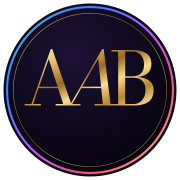
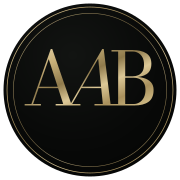
v4: maison restraint — black, deep emerald, champagne gold

Changed region(s): [[0.0278, 0.0278, 0.9722, 0.9722], [0.1389, 0.5278, 0.2222, 0.5833]]

diff --git a/src/index.css b/src/index.css
@@ -1,8 +1,8 @@
 :root{
-  --velvet:#07050f;--ink:#f6f0ff;--mute:rgba(246,240,255,.62);--line:rgba(255,255,255,.12);
-  --em:#0fbf8f;--sa:#3d6bff;--am:#a24dff;--ru:#ff2f6a;--gold:#e8c26a;
-  --foil:linear-gradient(110deg,#fff3c4 0%,#e8c26a 18%,#b07a2a 34%,#f8df98 50%,#b8862f 66%,#fff0b8 82%,#c9973c 100%);
-  --iri:linear-gradient(100deg,#46e0b4,#3d7bff 25%,#b45cff 50%,#ff4f7b 75%,#ffd27a);
+  --velvet:#070807;--ink:#f1eadb;--mute:rgba(241,234,219,.58);--line:rgba(201,177,122,.18);
+  --em:#0d2a22;--gold:#c9b17a;
+  --foil:linear-gradient(110deg,#a8905c 0%,#c9b17a 30%,#e6d6ad 48%,#c9b17a 62%,#9c8552 100%);
+  --iri:linear-gradient(90deg,rgba(201,177,122,.55),rgba(201,177,122,.15));
   --serif:'Bodoni Moda Variable','Bodoni Moda',Didot,serif;--sans:'Inter Tight Variable','Inter Tight',system-ui,sans-serif;
   --pad:clamp(20px,5vw,80px);--ease:cubic-bezier(.16,1,.3,1);
 }
@@ -12,7 +12,7 @@ body{overflow-x:hidden;font-size:16px;line-height:1.55}
 img{display:block;max-width:100%;height:auto}
 a{color:inherit;text-decoration:none}button{font:inherit;color:inherit;background:none;border:0;cursor:pointer}
 ol,ul{list-style:none}
-::selection{background:var(--am);color:#fff}
+::selection{background:var(--gold);color:#070807}
 .skip{position:fixed;left:12px;top:-60px;z-index:200;background:#fff;color:#000;padding:10px 14px;border-radius:8px}.skip:focus{top:12px}
 :focus-visible{outline:2px solid var(--gold);outline-offset:4px;border-radius:4px}
 .lbl{font-size:12px;letter-spacing:.18em;text-transform:uppercase;color:var(--mute);font-weight:500}
@@ -20,10 +20,10 @@ ol,ul{list-style:none}
 em{font-style:italic}
 
 /* text fills */
-.foil-t{background:var(--foil);background-size:250% 100%;-webkit-background-clip:text;background-clip:text;color:transparent;animation:foil 7s linear infinite}
-.iri-t{background:var(--iri);background-size:200% 100%;-webkit-background-clip:text;background-clip:text;color:transparent;animation:foil 9s linear infinite}
-.foil-t .wi{background:var(--foil);background-size:250% 100%;-webkit-background-clip:text;background-clip:text;color:transparent;animation:foil 7s linear infinite;padding-right:.05em}
-.iri-t .wi{background:var(--iri);background-size:200% 100%;-webkit-background-clip:text;background-clip:text;color:transparent;animation:foil 9s linear infinite;padding-right:.05em}
+.foil-t{background:var(--foil);background-size:250% 100%;-webkit-background-clip:text;background-clip:text;color:transparent;animation:foil 14s linear infinite}
+.iri-t{background:var(--iri);background-size:200% 100%;-webkit-background-clip:text;background-clip:text;color:transparent;animation:none}
+.foil-t .wi{background:var(--foil);background-size:250% 100%;-webkit-background-clip:text;background-clip:text;color:transparent;animation:foil 14s linear infinite;padding-right:.05em}
+.iri-t .wi{background:var(--iri);background-size:200% 100%;-webkit-background-clip:text;background-clip:text;color:transparent;animation:none;padding-right:.05em}
 .foil-t:has(.wi),.iri-t:has(.wi){background:none;animation:none}
 @keyframes foil{to{background-position:-250% 0}}
 
@@ -128,7 +128,7 @@ html[data-world="6"]{--w1:#7a0f3a;--w2:#4a1a8a;--w3:#6a4a1a}
 .head{display:flex;flex-direction:column;gap:22px;margin-bottom:clamp(40px,6vw,80px)}
 .head-l{display:flex;align-items:center;gap:12px}
 .h2{font-family:var(--serif);font-weight:400;font-size:clamp(48px,8.5vw,148px);line-height:.92;letter-spacing:-.03em}
-.h2 em .wi{background:var(--iri);background-size:200% 100%;-webkit-background-clip:text;background-clip:text;color:transparent;animation:foil 9s linear infinite;padding-right:.06em}
+.h2 em .wi{background:var(--iri);background-size:200% 100%;-webkit-background-clip:text;background-clip:text;color:transparent;animation:none;padding-right:.06em}
 .gem{width:14px;height:14px;transform:rotate(45deg);border-radius:2px;box-shadow:0 0 20px currentColor;background:currentColor}
 .gem-em{color:var(--em)}.gem-sa{color:var(--sa)}.gem-am{color:var(--am)}.gem-ru{color:var(--ru)}
 
@@ -243,3 +243,46 @@ html[data-world="6"]{--w1:#7a0f3a;--w2:#4a1a8a;--w3:#6a4a1a}
 @media (prefers-reduced-motion:reduce){
   *,*::before,*::after{animation:none!important;transition:none!important}
 }
+
+/* ───── v4 maison restraint ───── */
+.gold-t,.gold-t .wi{color:var(--gold)}
+.iri-t,.iri-t .wi{background:none!important;color:var(--gold)!important;-webkit-text-fill-color:var(--gold)}
+.h2 em .wi{background:none;color:var(--gold);animation:none}
+html,html[data-world]{--w1:#0d2a22;--w2:#08130f;--w3:#141108}
+.bg-css{background:radial-gradient(70% 55% at 75% 15%,rgba(13,42,34,.85),transparent 70%),radial-gradient(60% 50% at 10% 90%,rgba(13,42,34,.5),transparent 70%),var(--velvet)}
+.glass{background:linear-gradient(160deg,rgba(13,42,34,.35),rgba(7,8,7,.55));border:1px solid rgba(201,177,122,.16);border-radius:4px;box-shadow:0 40px 90px -40px rgba(0,0,0,.8);backdrop-filter:blur(12px);-webkit-backdrop-filter:blur(12px)}
+.glass::before{display:none}
+.glass:hover{border-color:rgba(201,177,122,.45)}
+.glass,.glass:hover{transition:border-color 1s var(--ease)}
+.wcard-media,.about-img picture,.spk-img picture{border-radius:2px}
+.disc-i.g0,.disc-i.g1,.disc-i.g2,.disc-i.g3{background:transparent;border:0;border-top:1px solid var(--line);box-shadow:none;backdrop-filter:none;border-radius:0;padding:28px 0}
+.disc{gap:0 48px}
+.gem,.gem-em,.gem-sa,.gem-am,.gem-ru{width:7px;height:7px;background:none;border:1px solid var(--gold);color:var(--gold);box-shadow:none}
+.head-l .lbl{color:var(--gold)}
+.hero-halo{background:radial-gradient(circle,rgba(13,42,34,.9),rgba(13,42,34,0) 65%);filter:blur(30px);opacity:1;animation:none}
+.hero-roles li{border-color:var(--line);background:transparent;backdrop-filter:none;border-radius:0;color:var(--mute)}
+.hero-roles{gap:0}.hero-roles li{border:0;padding:4px 0 4px 14px}.hero-roles li+li::before{content:"·";margin-right:14px;color:var(--gold)}
+.hdr::before{background:rgba(7,8,7,.55);border-color:var(--line);border-radius:0;inset:0;border-width:0 0 1px}
+.hdr-cta{border-radius:0;border-color:rgba(201,177,122,.45)}
+.btn{background:transparent;color:var(--gold);border:1px solid var(--gold);border-radius:0;box-shadow:none;animation:none;letter-spacing:.2em;text-transform:uppercase;font-size:13px;font-weight:500;overflow:hidden;transition:color .8s var(--ease)}
+.btn::before{content:"";position:absolute;inset:0;background:var(--foil);background-size:250% 100%;transform:scaleY(0);transform-origin:bottom;transition:transform .9s var(--ease)}
+.btn:hover{color:#070807}.btn:hover::before{transform:scaleY(1);animation:foil 6s linear infinite}
+.btn-xl{font-size:14px}
+.mq{background:transparent;backdrop-filter:none;padding:22px 0}.mq-t b{font-size:clamp(26px,3.6vw,52px);color:rgba(241,234,219,.85)}
+.cur-r.on{background:rgba(201,177,122,.12);border-color:var(--gold);color:var(--gold);backdrop-filter:blur(4px)}
+.vis-cosmos,.vis-blink{background:radial-gradient(circle at 70% 30%,#123a2f,#0a1511 60%,#070807)}
+.vis-cosmos .orb{background:radial-gradient(circle at 30% 30%,#e6d6ad,#9c8552 45%,#1b2a20 80%);box-shadow:0 0 60px rgba(201,177,122,.25)}
+.vis-blink .ply{background:transparent;border:1px solid rgba(201,177,122,.5);backdrop-filter:none}
+.vis b em{color:var(--gold)}
+.vis-ph{background:linear-gradient(160deg,#0d1a15,#070807)}
+.cs{background:linear-gradient(160deg,rgba(13,42,34,.45),rgba(7,8,7,.6))}
+.gal-i{border-radius:2px}.gal-i::after{background:#070807;mix-blend-mode:normal}.gal-i:hover::after{opacity:.15}
+.gal-i::before{content:"";position:absolute;inset:10px;border:1px solid rgba(201,177,122,0);z-index:2;transition:border-color 1s var(--ease);pointer-events:none}.gal-i:hover::before{border-color:rgba(201,177,122,.6)}
+.frame{background:linear-gradient(135deg,#8f7a4c,#c9b17a 35%,#e2d2a6 50%,#b39d68 65%,#7d6a40);animation:none;padding:7px}
+.frame-in{background:radial-gradient(circle at 50% 30%,#10241d,#070807 85%)}
+.frame:hover{transform:translateY(-6px)}
+.ftr-wm{animation:none;background:none;color:var(--gold);opacity:.9}
+.emb-sheen{animation-duration:9s;opacity:.6}
+.menu{background:radial-gradient(circle at 70% 20%,#0d2a22,#070807 70%)}
+.sec{padding-block:clamp(110px,16vw,220px)}
+.lb{background:rgba(7,8,7,.95)}

diff --git a/src/components/Silk.jsx b/src/components/Silk.jsx
@@ -1,29 +1,23 @@
 import { useEffect, useRef } from 'react'
 /* Jewel palettes per section world: [base, a, b, c] */
 export const WORLDS = [
-  [[0.03, 0.02, 0.07], [0.42, 0.16, 0.78], [0.10, 0.32, 0.95], [0.95, 0.72, 0.36]], // amethyst/sapphire (hero)
-  [[0.01, 0.05, 0.04], [0.02, 0.55, 0.40], [0.10, 0.75, 0.62], [0.90, 0.75, 0.40]], // emerald
-  [[0.01, 0.02, 0.08], [0.07, 0.25, 0.85], [0.30, 0.55, 1.00], [0.62, 0.30, 0.95]], // sapphire
-  [[0.04, 0.01, 0.07], [0.55, 0.15, 0.80], [0.85, 0.30, 0.70], [0.25, 0.20, 0.90]], // amethyst
-  [[0.07, 0.01, 0.03], [0.75, 0.05, 0.22], [0.95, 0.30, 0.35], [0.95, 0.65, 0.30]], // ruby
-  [[0.02, 0.04, 0.04], [0.05, 0.50, 0.42], [0.85, 0.65, 0.25], [0.20, 0.35, 0.90]], // emerald-gold
-  [[0.05, 0.02, 0.06], [0.70, 0.10, 0.35], [0.45, 0.15, 0.85], [0.95, 0.75, 0.40]], // ruby-amethyst
+  [[0.027, 0.031, 0.027], [0.03, 0.10, 0.08], [0.06, 0.17, 0.13], [0.79, 0.69, 0.48]], // black / deep emerald / champagne
 ]
 const VS = 'attribute vec2 p;void main(){gl_Position=vec4(p,0.,1.);}'
 const FS = `precision mediump float;uniform vec2 r;uniform float t;uniform vec2 m;uniform float s;uniform vec3 c0,c1,c2,c3;
 float h(vec2 p){return fract(sin(dot(p,vec2(41.3,289.1)))*43758.5);}
 float n(vec2 p){vec2 i=floor(p),f=fract(p);f=f*f*(3.-2.*f);return mix(mix(h(i),h(i+vec2(1,0)),f.x),mix(h(i+vec2(0,1)),h(i+1.),f.x),f.y);}
 void main(){vec2 uv=gl_FragCoord.xy/r;vec2 p=(gl_FragCoord.xy-.5*r)/min(r.x,r.y);
-float T=t*.06+s*.6;vec2 q=p+(m-.5)*.35;
+float T=t*.025+s*.25;vec2 q=p+(m-.5)*.35;
 for(int i=1;i<5;i++){float fi=float(i);q+=vec2(.55/fi*sin(fi*q.y*1.7+T*fi+.3*fi),.45/fi*cos(fi*q.x*1.5+T*1.3*fi));}
 float a=.5+.5*sin(q.x*1.2+q.y*.8+T*2.),b=.5+.5*cos(q.y*1.6-T),k=.5+.5*sin((q.x-q.y)*2.6+T*3.);
-vec3 col=mix(c1,c2,a);col=mix(col,c3,pow(k,6.)*.55);
+vec3 col=mix(c1,c2,a);col=mix(col,c3,pow(k,10.)*.12);
 float silk=pow(.5+.5*sin(q.x*3.+q.y*2.+T*2.5),14.);
-vec3 iri=.5+.5*cos(6.283*(vec3(0.,.33,.67)+a+q.x*.15));
-col+=silk*(.35*iri+.25);
-float d=length(p-(m-.5)*vec2(1.6,-1.)*.6);col+=c3*.12*exp(-d*3.);
+
+col+=silk*c3*.10;
+float d=length(p-(m-.5)*vec2(1.6,-1.)*.6);col+=c3*.03*exp(-d*3.);
 float v=smoothstep(1.35,.2,length(uv-.5)*1.6);
-col=mix(c0,col,(.32+.38*b)*v);col+=(n(gl_FragCoord.xy*.9)-.5)*.035;
+col=mix(c0,col,(.55+.35*b)*v);col+=(n(gl_FragCoord.xy*.9)-.5)*.02;
 gl_FragColor=vec4(col,1.);}`
 /** Fixed full-page liquid-silk shader. world: index into WORLDS (changes animate). */
 export default function Silk({ world = 0, onFail }) {

diff --git a/src/App.jsx b/src/App.jsx
@@ -87,7 +87,7 @@ function Hero() {
 
 function Marquee() {
   const w = ['Graphic Design', 'Web Development', 'Artificial Intelligence', 'Motivational Speaking']
-  return <div className="mq" aria-hidden="true"><div className="mq-t">{[0, 1].map((k) => <span key={k}>{w.map((x, i) => <b key={x} className={i % 2 ? 'foil-t it' : 'iri-t'}>{x}<i>✦</i></b>)}</span>)}</div></div>
+  return <div className="mq" aria-hidden="true"><div className="mq-t">{[0, 1].map((k) => <span key={k}>{w.map((x, i) => <b key={x} className={i % 2 ? 'gold-t it' : ''}>{x}<i>✦</i></b>)}</span>)}</div></div>
 }
 
 function Head({ n, label, title, gem }) {
@@ -233,7 +233,7 @@ function Contact() {
     <section className="contact" id="contact" data-world="6">
       <div className="sec">
         <div className="head-l"><span className="gem gem-ru" /><span className="num">08</span><span className="lbl">Contact</span></div>
-        <h2 className="ct-big"><Split parts="Let’s create" /><br /><em className="iri-t"><Split parts="something" /></em> <Split parts="remarkable." /></h2>
+        <h2 className="ct-big"><Split parts="Let’s create" /><br /><em className="gold-t"><Split parts="something" /></em> <Split parts="remarkable." /></h2>
         <div className="ct-row">
           <Magnetic href={`mailto:${profile.email}`} className="btn-xl" data-cursor="Write">Start a project</Magnetic>
           <div className="ct-info glass">
@@ -255,9 +255,9 @@ function Contact() {
 function useMotion(setWorld) {
   useLayoutEffect(() => {
     const worlds = gsap.utils.toArray('[data-world]')
-    const sts = worlds.map((el) => ScrollTrigger.create({ trigger: el, start: 'top 55%', end: 'bottom 55%', onToggle: (s) => s.isActive && setWorld(+el.dataset.world) }))
+    const sts = worlds.map((el) => ScrollTrigger.create({ trigger: el, start: 'top 55%', end: 'bottom 55%', onToggle: (s) => s.isActive && setWorld(0) }))
     if (RM) { document.documentElement.classList.add('rm'); return () => sts.forEach((s) => s.kill()) }
-    lenis = new Lenis({ duration: 1.2, smoothWheel: true, easing: (t) => 1 - Math.pow(1 - t, 4) })
+    lenis = new Lenis({ duration: 1.5, smoothWheel: true, easing: (t) => 1 - Math.pow(1 - t, 4) })
     lenis.on('scroll', ScrollTrigger.update)
     const tick = (t) => lenis.raf(t * 1000); gsap.ticker.add(tick); gsap.ticker.lagSmoothing(0)
     const mm = gsap.matchMedia()

diff --git a/index.html b/index.html
@@ -6,7 +6,7 @@
     <meta name="robots" content="noindex, nofollow" />
     <title>Abdul Aziz Bin Harun · Designer, Developer, Speaker & AI Expert</title>
     <meta name="description" content="Abdul Aziz Bin Harun from Dhaka, Bangladesh: graphic designer, web developer, motivational speaker and AI expert. Founder of PDFroo." />
-    <meta name="theme-color" content="#0b0a09" />
+    <meta name="theme-color" content="#070807" />
     <link rel="icon" href="%BASE_URL%favicon.svg" type="image/svg+xml" />
     <link rel="icon" href="%BASE_URL%favicon-32.png" sizes="32x32" type="image/png" />
     <link rel="apple-touch-icon" href="%BASE_URL%apple-touch-icon.png" />

diff --git a/src/components/Logo.jsx b/src/components/Logo.jsx
@@ -3,7 +3,7 @@ const base = import.meta.env.BASE_URL
 export default function Logo({ size = 'md', className = '' }) {
   return (
     <span className={`emb emb--${size} ${className}`} aria-hidden="true">
-      <img src={`${base}brand/logo-v3.svg`} alt="" width="512" height="512" />
+      <img src={`${base}brand/logo-v4.svg`} alt="" width="512" height="512" />
       <span className="emb-sheen" />
     </span>
   )
